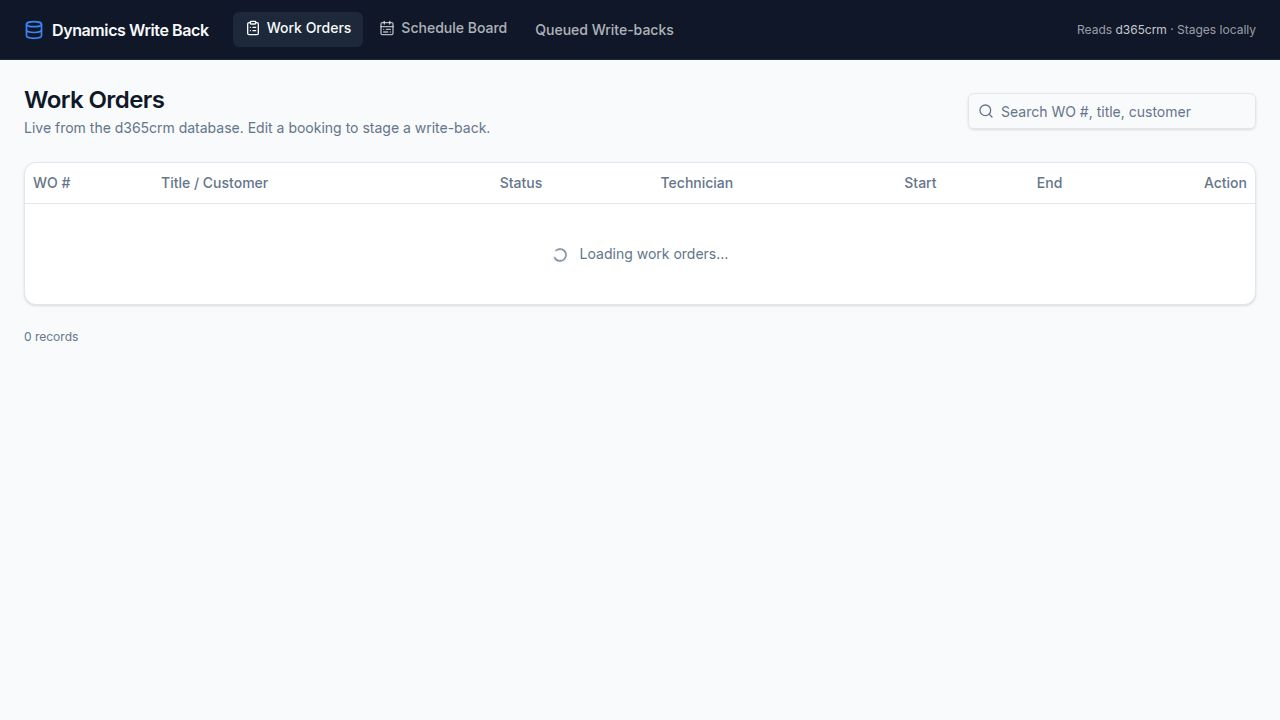
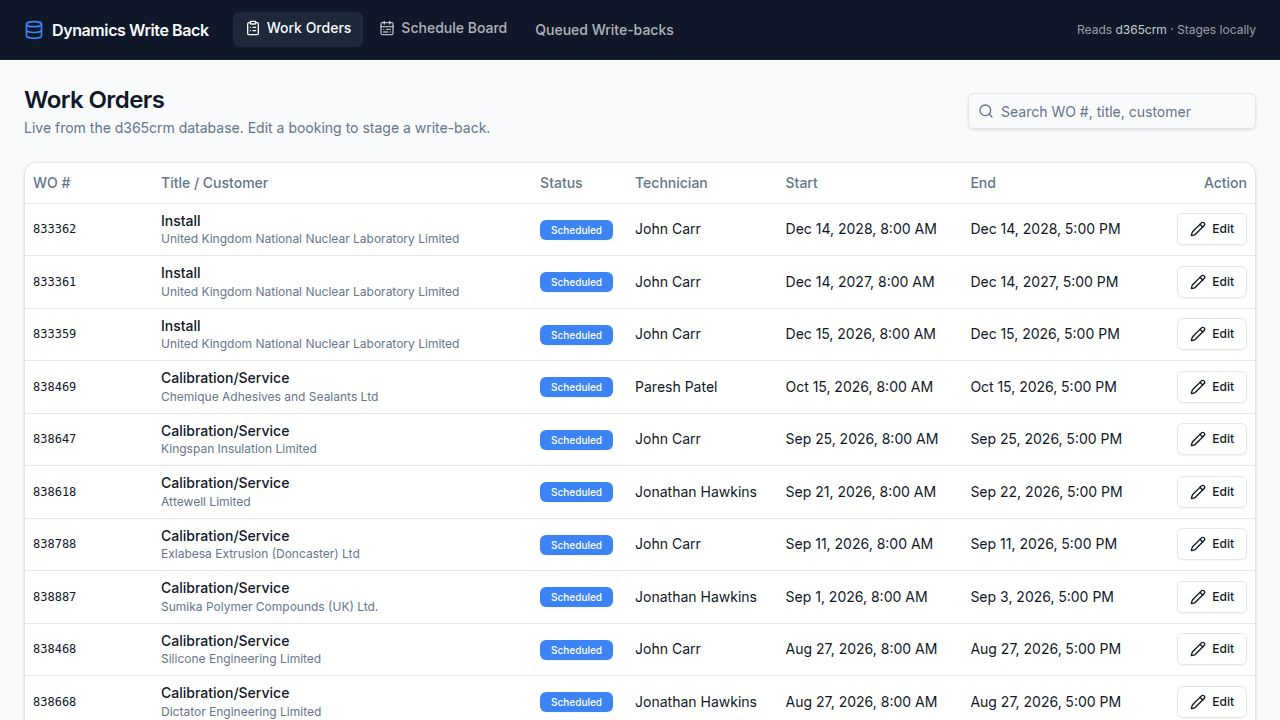
Add "Show idle techs" toggle to Schedule Board for capacity planning
Task #9: Dispatchers doing capacity planning sometimes need to see
technicians who have no jobs in the selected range (idle/available),
the opposite of the board's default focused view.

Changes (artifacts/dynamics-write-back/src/pages/ScheduleBoard.tsx):
- Added `showIdleTechs` state (default false), preserving the existing
  focused-view default behavior.
- Gated the `allRegions` memo on the toggle: when off, it keeps the
  existing filter (drop technicians with zero jobs and regions left with
  none); when on, it returns the raw API regions including idle techs.
  Because `regions`, `allTechs`, region/tech counts, and the technician
  dropdown all derive from `allRegions`, the toggle flows through to
  every board view (Week, Month, Calendar/print) and all counts.
- Added a "Show idle techs" switch-style toggle button on the right of
  the region filter row (data-testid="toggle-show-idle-techs").

Verification:
- `pnpm run typecheck:libs` then artifact typecheck pass clean. (The
  initial artifact typecheck failures were stale composite lib
  declarations, fixed by building libs first — pre-existing, unrelated.)
- API confirms behavior: default range shows 21 techs with jobs; toggle
  on reveals all 55 techs (34 idle) and a 6th region otherwise hidden.

No deviations from the task scope.

Replit-Task-Id: e2920349-fddb-477f-bdb4-2358a71651e0

diff --git a/artifacts/dynamics-write-back/src/pages/ScheduleBoard.tsx b/artifacts/dynamics-write-back/src/pages/ScheduleBoard.tsx
@@ -566,6 +566,10 @@ export default function ScheduleBoard() {
   // an unscheduled job, so the dialog can auto-fill the end time.
   const [editingDuration, setEditingDuration] = useState<number | null>(null);
   const [utilRegions, setUtilRegions] = useState<Set<string> | null>(null); // null = all
+  // Capacity-planning toggle. When false (default) the board hides technicians
+  // with no jobs in the current range to keep the view focused on scheduled
+  // work. When true, idle technicians are shown across all views and counts.
+  const [showIdleTechs, setShowIdleTechs] = useState(false);
 
   // Open the booking dialog in "new booking" mode for an unscheduled work order,
   // pre-filled with the work order and an optional suggested technician.
@@ -693,18 +697,22 @@ export default function ScheduleBoard() {
     [rangeStart, dayCount, view],
   );
 
-  // Display-only filter: only show technicians that have at least one job in the
-  // current range, and drop regions that end up with no such technicians. The API
-  // response is left untouched for other consumers.
+  // Display-only filter: by default only show technicians that have at least one
+  // job in the current range, and drop regions that end up with no such
+  // technicians. When `showIdleTechs` is on (capacity planning), show the full
+  // roster including idle technicians. The API response is left untouched for
+  // other consumers.
   const allRegions = useMemo(
     () =>
-      (data?.regions ?? [])
-        .map((r) => ({
-          ...r,
-          technicians: r.technicians.filter((t) => (t.jobs?.length ?? 0) > 0),
-        }))
-        .filter((r) => r.technicians.length > 0),
-    [data],
+      showIdleTechs
+        ? (data?.regions ?? [])
+        : (data?.regions ?? [])
+            .map((r) => ({
+              ...r,
+              technicians: r.technicians.filter((t) => (t.jobs?.length ?? 0) > 0),
+            }))
+            .filter((r) => r.technicians.length > 0),
+    [data, showIdleTechs],
   );
   const regions = useMemo(
     () =>
@@ -1048,9 +1056,11 @@ export default function ScheduleBoard() {
         </div>
       </div>
 
-      {/* Region filter */}
-      {!isLoading && allRegions.length > 0 && (
+      {/* Region filter + capacity-planning toggle */}
+      {!isLoading && data && (
         <div className="flex items-center gap-2 flex-wrap" data-testid="region-filter">
+          {allRegions.length > 0 && (
+            <>
           <span className="text-xs font-semibold uppercase tracking-wide text-muted-foreground mr-1">
             Filter regions:
           </span>
@@ -1093,6 +1103,35 @@ export default function ScheduleBoard() {
               None
             </button>
           </div>
+            </>
+          )}
+          <button
+            type="button"
+            role="switch"
+            aria-checked={showIdleTechs}
+            onClick={() => setShowIdleTechs((v) => !v)}
+            data-testid="toggle-show-idle-techs"
+            title="Show technicians with no jobs in the current range"
+            className={`ml-auto inline-flex items-center gap-2 text-xs px-2.5 py-1 rounded-full border font-medium transition-colors ${
+              showIdleTechs
+                ? "bg-primary text-primary-foreground border-primary"
+                : "bg-card text-muted-foreground border-border hover:bg-accent"
+            }`}
+          >
+            <span
+              className={`relative inline-flex h-3.5 w-6 items-center rounded-full transition-colors ${
+                showIdleTechs ? "bg-primary-foreground/40" : "bg-muted-foreground/30"
+              }`}
+              aria-hidden
+            >
+              <span
+                className={`inline-block h-2.5 w-2.5 rounded-full bg-white shadow transition-transform ${
+                  showIdleTechs ? "translate-x-3" : "translate-x-0.5"
+                }`}
+              />
+            </span>
+            Show idle techs
+          </button>
         </div>
       )}
 